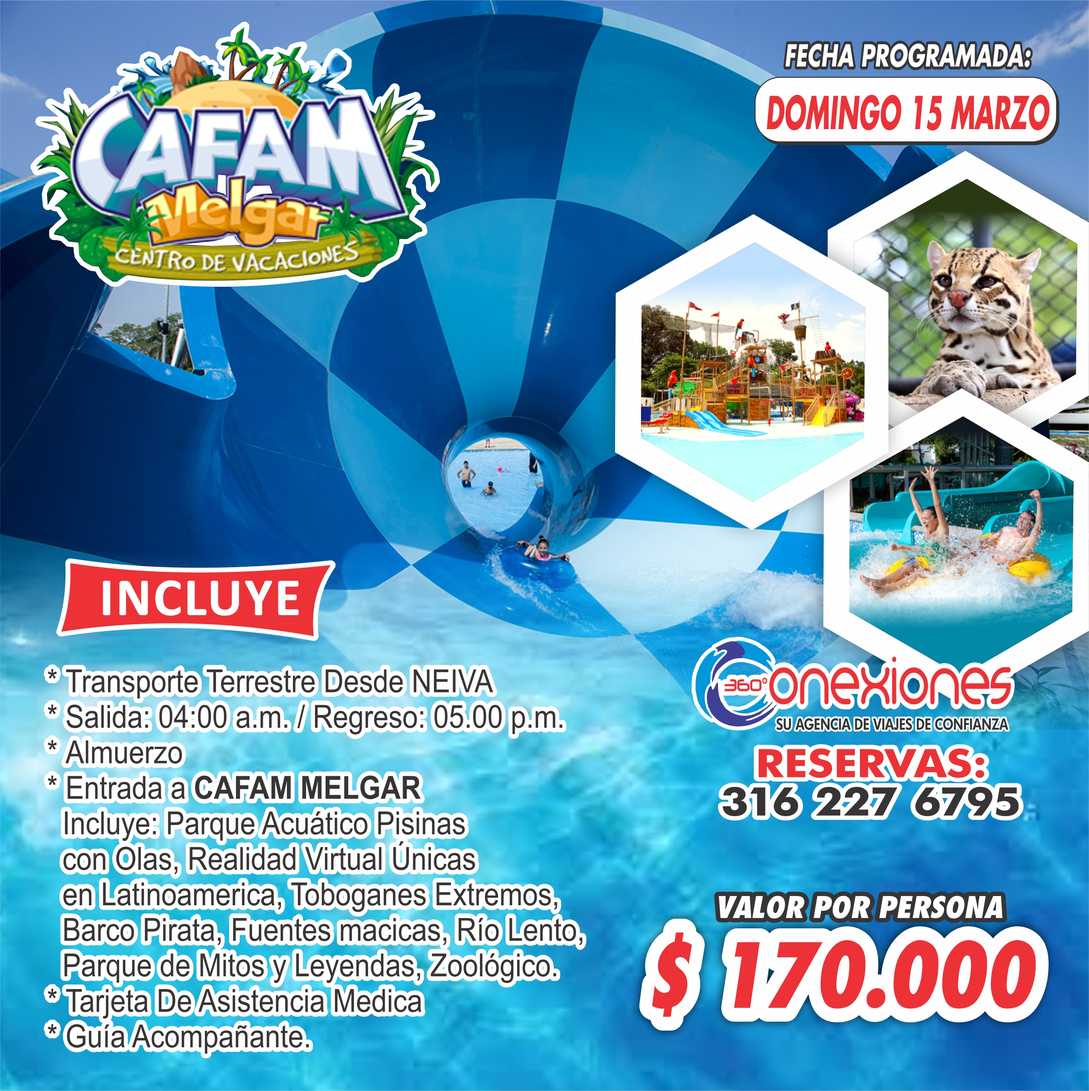
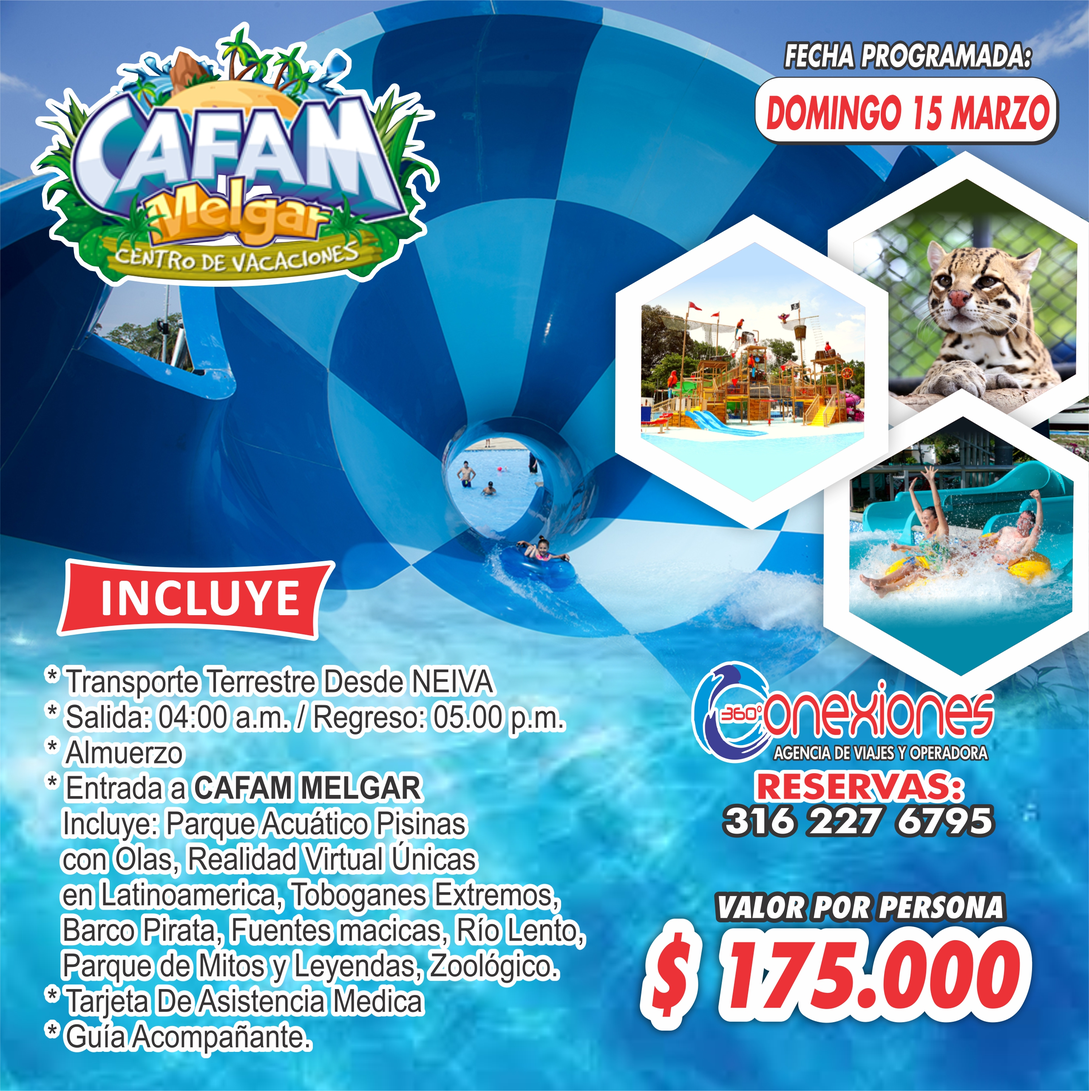
marzo correcciones v200226#2

Changed region(s): [[0.6245, 0.5607, 0.9368, 0.7788], [0.6245, 0.8411, 0.968, 0.9346]]

diff --git a/src/data/flyers/flyers.ts b/src/data/flyers/flyers.ts
@@ -246,7 +246,7 @@ export const flyers: FlyerPlan[] = [
     tipo: "terrestre",
     titulo: "Programación Marzo 2026",
     fechas: ["Marzo 1 - 30"],
-    precio: 120000,
+    precio: 130000,
     imagen: "/Marzo2026/listamarzo.jpg",
     whatsappBase:
       "Hola Conexiones360, quiero información del plan Marzo 2026",
@@ -258,9 +258,10 @@ export const flyers: FlyerPlan[] = [
     titulo: "Piscilago Pasadía 2X",
     fechas: [
       "Marzo 1",
+      "Marzo 15",
       "Marzo 23",
     ],
-    precio: 370000,
+    precio: 350000,
     imagen: "/Marzo2026/piscilago.jpg",
     whatsappBase:
       "Hola Conexiones360, quiero información del plan Piscilago",
@@ -271,7 +272,7 @@ export const flyers: FlyerPlan[] = [
     tipo: "terrestre",
     titulo: "Peregrinación Buga",
     fechas: ["Marzo 14"],
-    precio: 120000,
+    precio: 130000,
     imagen: "/Marzo2026/buga.jpg",
     whatsappBase:
       "Hola Conexiones360, quiero información del plan Peregrinación Buga",
@@ -282,7 +283,7 @@ export const flyers: FlyerPlan[] = [
     tipo: "terrestre",
     titulo: "Cafam Melgar",
     fechas: ["Marzo 15"],
-    precio: 170000,
+    precio: 175000,
     imagen: "/Marzo2026/cafam.jpg",
     whatsappBase:
       "Hola Conexiones360, quiero información del plan Cafam Melgar",
